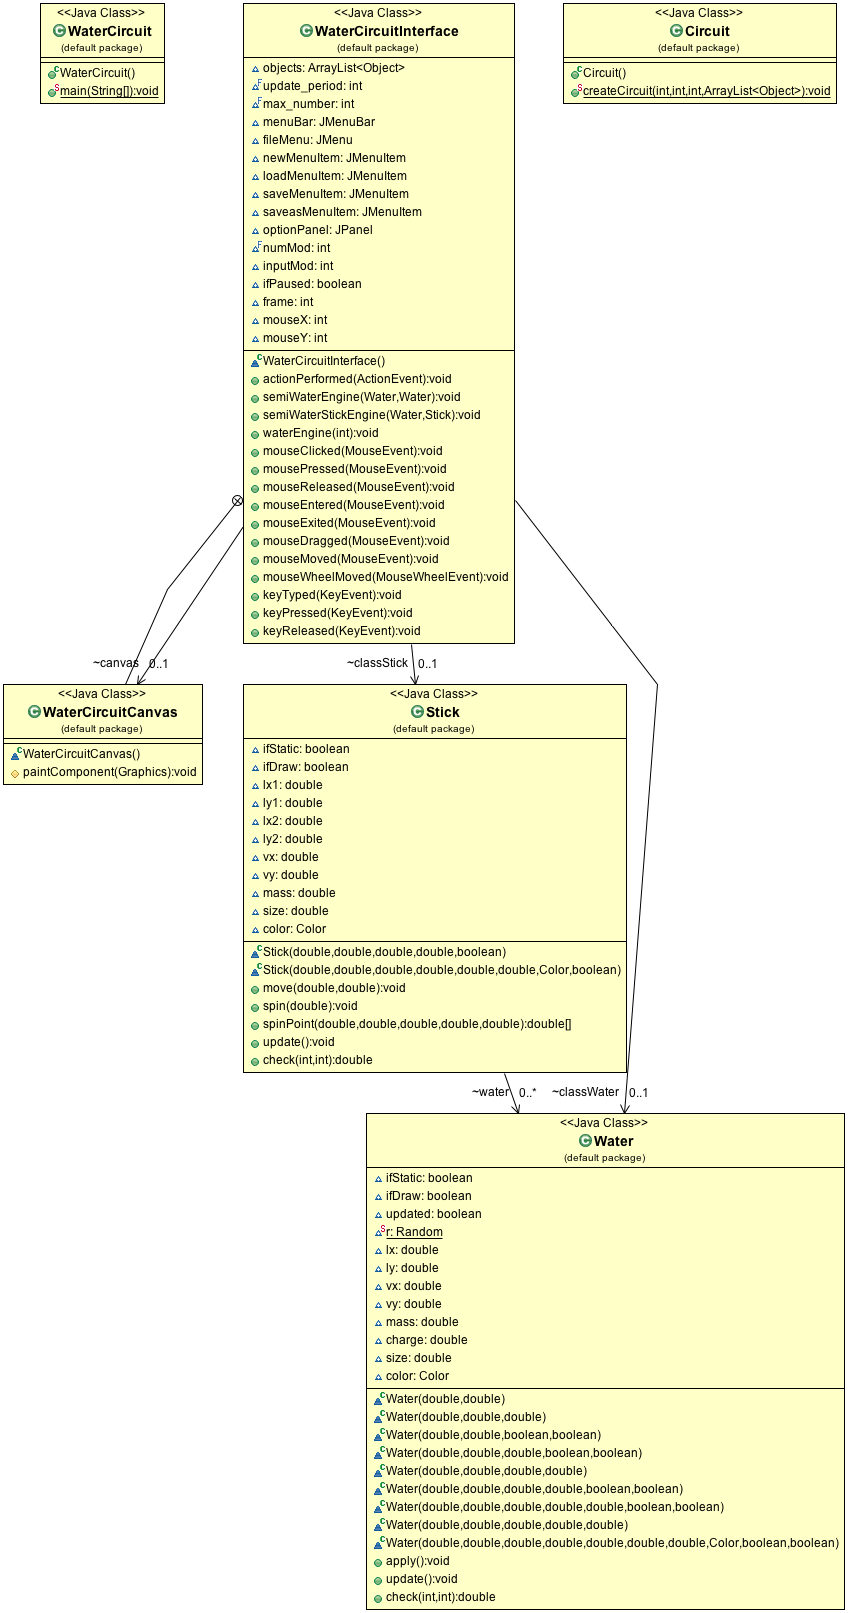
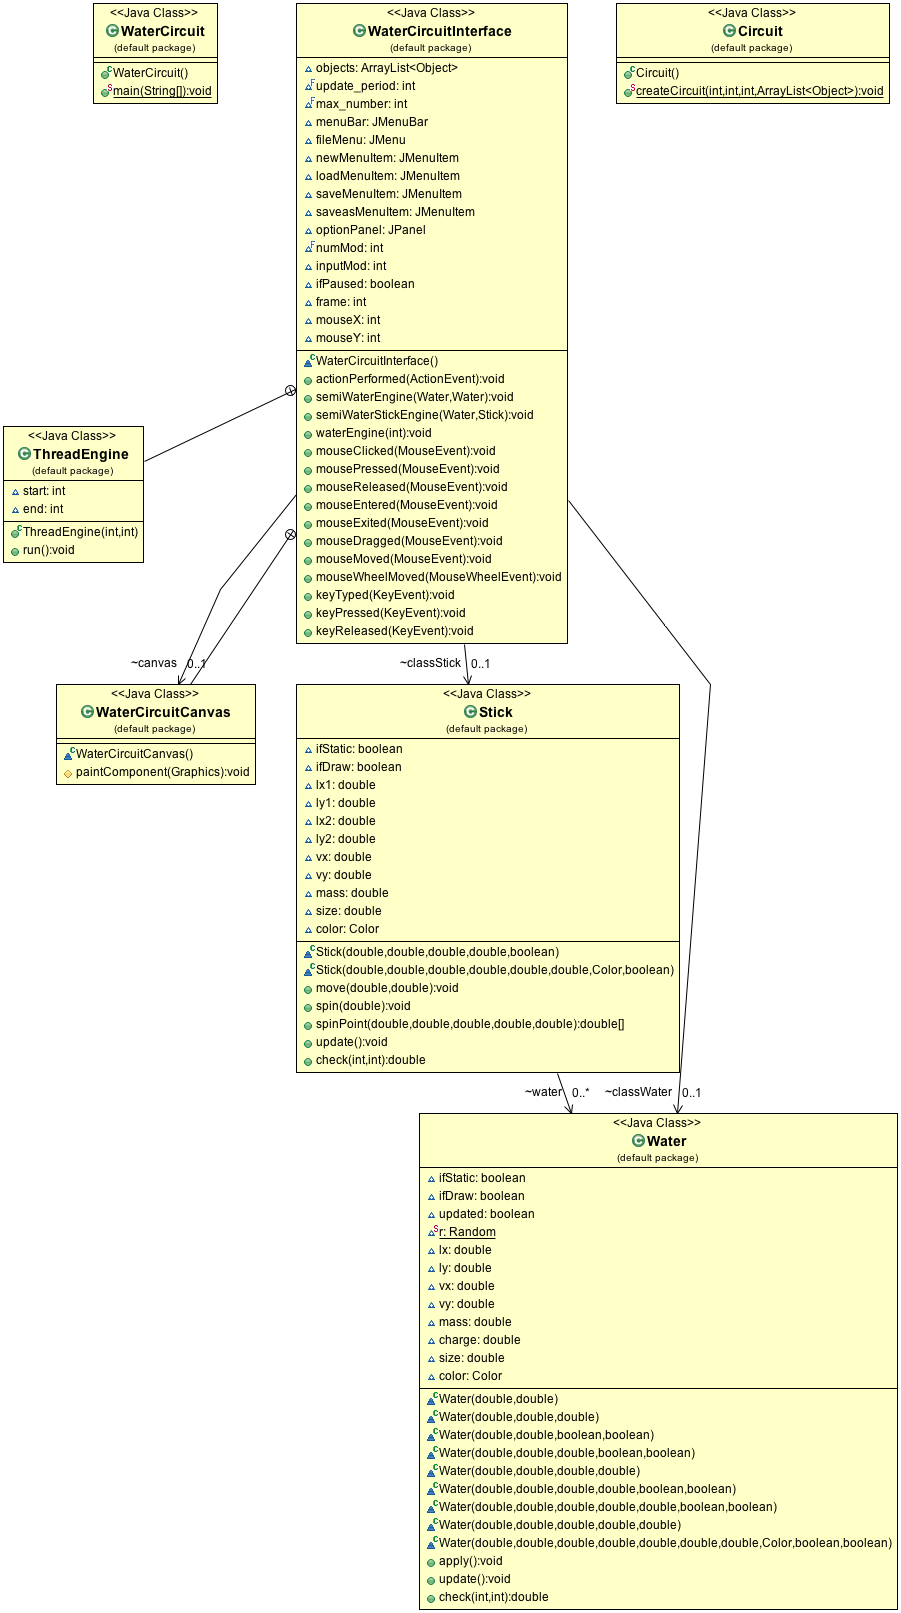
WaterCircuit v0.1.0b3 (BUILD 21)
1. multi core cpu support

diff --git a/src/WaterCircuitInterface.java b/src/WaterCircuitInterface.java
@@ -32,7 +32,7 @@ public class WaterCircuitInterface extends JFrame implements ActionListener, Mou
 	Stick classStick = new Stick(0,0,10,10,true);
 	
 	final int update_period = 60;
-	final int max_number = 500;
+	final int max_number = 1000;
 
 	JMenuBar menuBar;
 	JMenu fileMenu;
@@ -53,7 +53,7 @@ public class WaterCircuitInterface extends JFrame implements ActionListener, Mou
 
 	WaterCircuitInterface() {
 
-		super("WaterCircuit v0.1.0b2 (BUILD 20) by mileu");
+		super("WaterCircuit v0.1.0b3 (BUILD 21) by mileu");
 
 		objects = new ArrayList<Object>();
 		
@@ -136,7 +136,7 @@ public class WaterCircuitInterface extends JFrame implements ActionListener, Mou
 	public void actionPerformed(ActionEvent e) {
 		if(!ifPaused){
 			
-			waterEngine(128);
+			waterEngine(16);
 
 			frame++;
 			frame = frame % 4;
@@ -296,9 +296,9 @@ public class WaterCircuitInterface extends JFrame implements ActionListener, Mou
 		
 		if (length < 50 && length > 0) {
 			// constant is just...optional??(임의의)
-			double force = 16 * water1.charge * water2.charge / (length * length);
-			if (force > 16)
-				force = 16;
+			double force = 4 * water1.charge * water2.charge / (length * length);
+			if (force > 4)
+				force = 4;
 			double forceX = force * (water1.lx - water2.lx) / length;
 			double forceY = force * (water1.ly - water2.ly) / length;
 
@@ -320,14 +320,19 @@ public class WaterCircuitInterface extends JFrame implements ActionListener, Mou
 			semiWaterEngine(water, stick.water[i]);
 		}
 	}
+	
+	class ThreadEngine extends Thread {
+		int start, end;
 
-	public void waterEngine(int frequency) {
-		for (int n = 0; n < frequency; n++) {
-			((Stick) objects.get(0)).spin(0.01745/8);
-			((Stick) objects.get(1)).spin(0.01745/8);
-			// force between two water
-			for (int i = 0; i < objects.size(); i++) {
-				// force between two water
+		public ThreadEngine(int start, int end) {
+			//System.out.println(start + "에서부터 "+ end + "까지 연산하는 스레드가 생성되었습니다.");
+			this.start = start;
+			this.end = end;
+		}
+		
+		public void run() {
+			//System.out.println("연산이 시작됩니다.");
+			for(int i = start; i < end; i++){
 				for (int j = i + 1; j < objects.size(); j++) {
 
 					if (objects.get(i).getClass() == classWater.getClass() && objects.get(j).getClass() == classWater.getClass())
@@ -344,6 +349,40 @@ public class WaterCircuitInterface extends JFrame implements ActionListener, Mou
 
 				}
 			}
+			//System.out.println("연산이 완료되었습니다.");
+
+		}
+	}
+	public void waterEngine(int frequency) {
+		for (int n = 0; n < frequency; n++) {
+			((Stick) objects.get(0)).spin(0.01745/8);
+			((Stick) objects.get(1)).spin(0.01745/8);
+			// force between two water
+			int thread0 = 0;
+			int thread1 = (int) (0.1339 * objects.size());
+			int thread2 = (int) (0.2928 * objects.size());
+			int thread3 = (int) (0.5 * objects.size());
+			int thread4 = objects.size();
+			
+			ThreadEngine te1 = new ThreadEngine(thread0, thread1);
+			ThreadEngine te2 = new ThreadEngine(thread1, thread2);
+			ThreadEngine te3 = new ThreadEngine(thread2, thread3);
+			ThreadEngine te4 = new ThreadEngine(thread3, thread4);
+			
+			te1.start();
+			te2.start();
+			te3.start();
+			te4.start();
+			
+			try {
+				te1.join();
+				te2.join();
+				te3.join();
+				te4.join();
+			} catch (Exception e) {
+				e.printStackTrace(); 
+			}
+			//System.out.println("calculation finished!");
 			
 			for (int i = 0; i < objects.size(); i++) {
 				// visual.

diff --git a/src/Stick.java b/src/Stick.java
@@ -36,7 +36,7 @@ class Stick {
 
 		double length = Math.sqrt((lx2 - lx1) * (lx2 - lx1) + (ly2 - ly1) * (ly2 - ly1));
 
-		int waterCount = (int) (length - 0.1) / 10 + 1;
+		int waterCount = (int) (length - 0.1) / 5 + 1;
 
 		this.water = new Water[waterCount];
 
